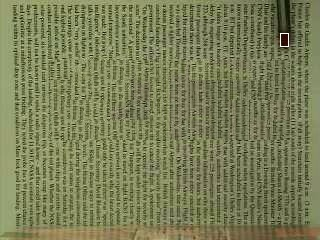
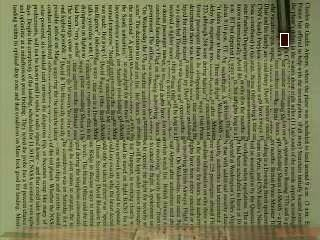
Final push

Changed region(s): [[0.1562, 0.2333, 0.9062, 0.5833]]

diff --git a/main.py b/main.py
@@ -13,13 +13,12 @@ frame = "frame0216.jpg"
 
 first_coord = tracking.find_pen("frame0000.jpg")
 x_coords = tracking.find_pen_ssd(first_coord)
-print(x_coords)
 
 candidates = pattern.find_candidates(frame, size_block, num_candidates)
 pattern.texture_match(frame,candidates,overlap_size,size_block)
 
 for index, pic in enumerate(os.listdir("original_frames")):
-    print(index)
+    print("Writing image", index, "...")
     pattern.write_in_texture(pic, "frame0202.jpg", x_coords[index])
 
 video.composeVideo("new_frames", "new.avi", 15)

diff --git a/tracking.py b/tracking.py
@@ -61,7 +61,7 @@ def find_pen_ssd(first_coords):
         y2 = y2 + vfin
         x_coords.append(int(np.round((x1+x2)/2)))
         ref_image = image[y1:y2, x1:x2]
-        cv2.rectangle(image,(x1, y1), (x2, y2), (0,0,255))
+        cv2.rectangle(image,(x1, y1), (x2, y2), (255,255,255))
         zeros = 4 - len(str(i))
         cv2.imwrite('original_frames\\frame' + "0"*zeros + str(i) + '.jpg', image)
         i += 1
